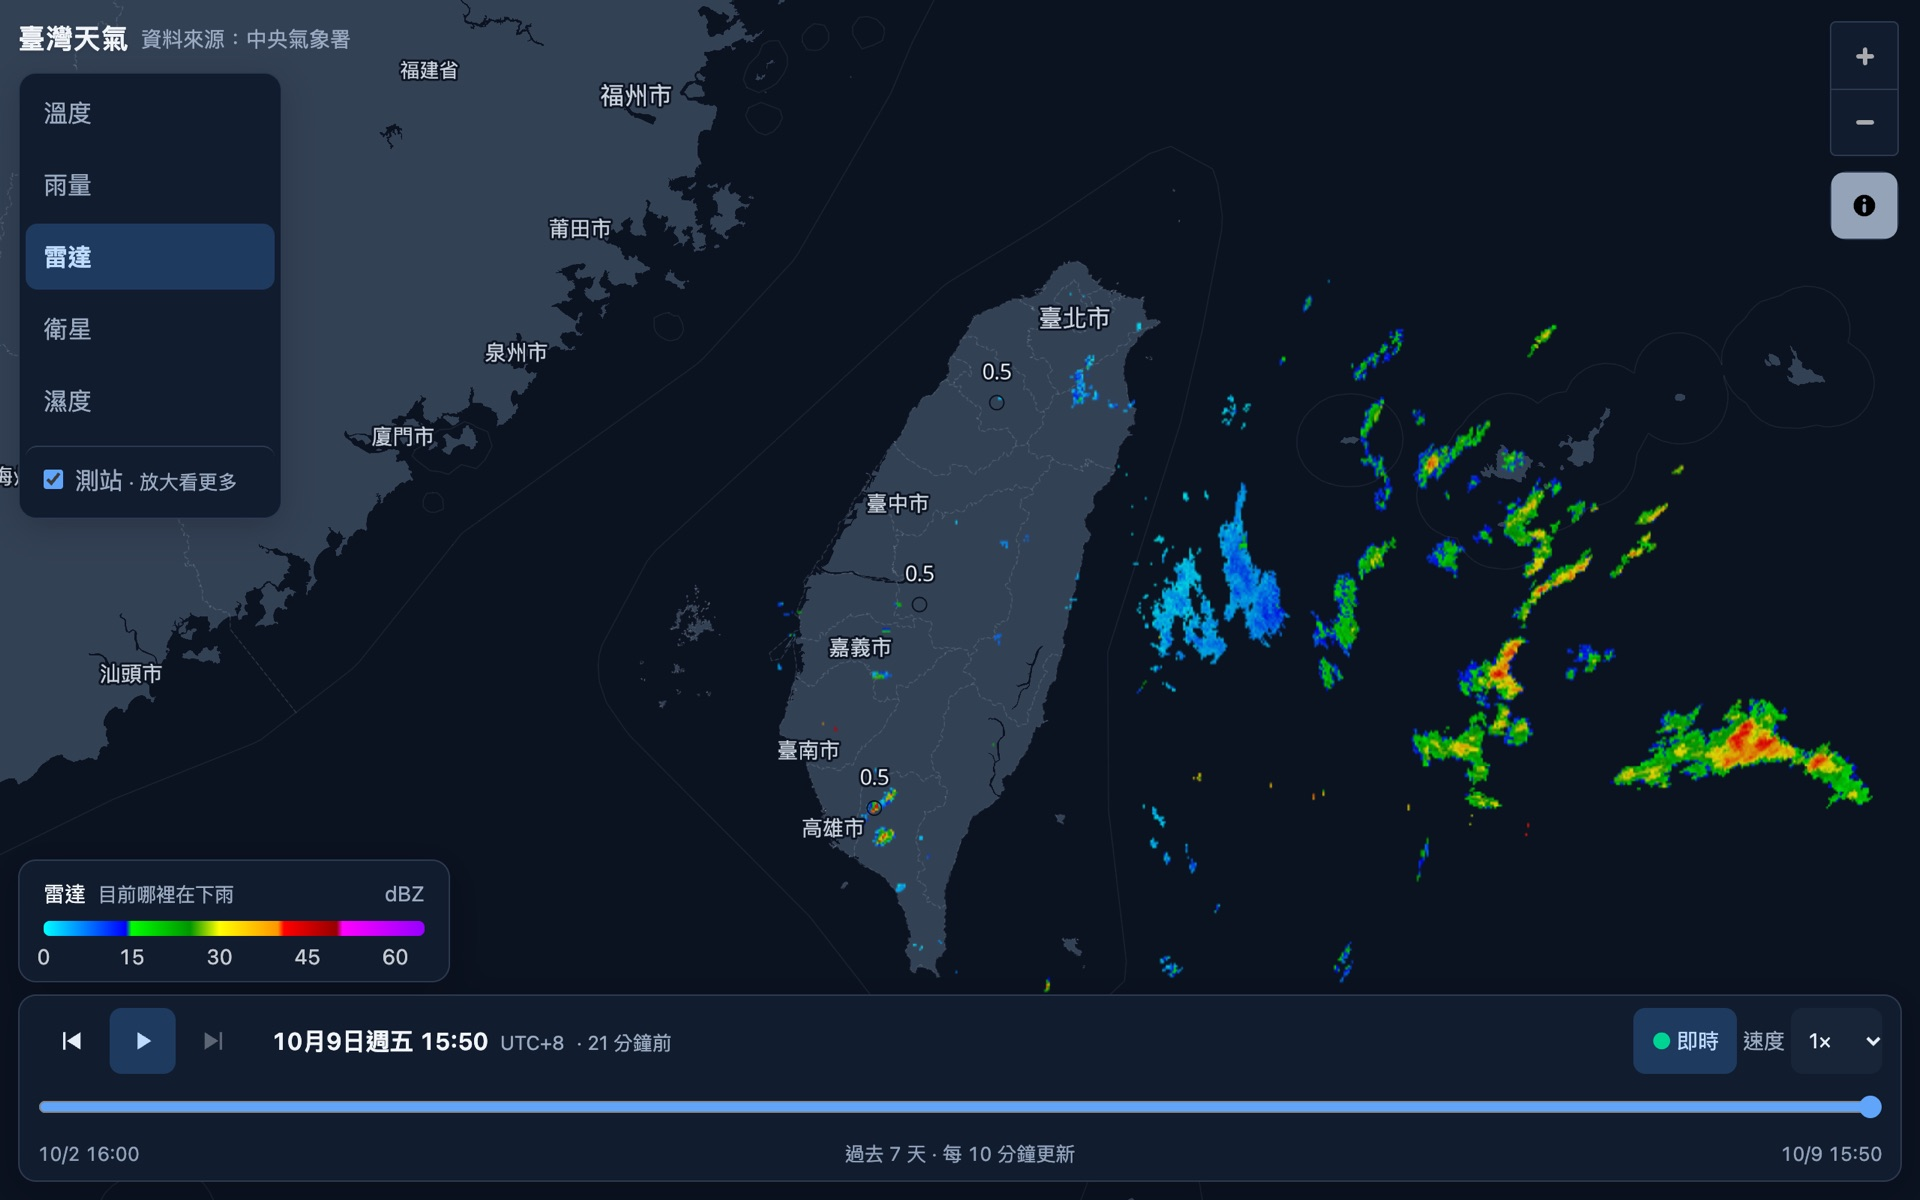
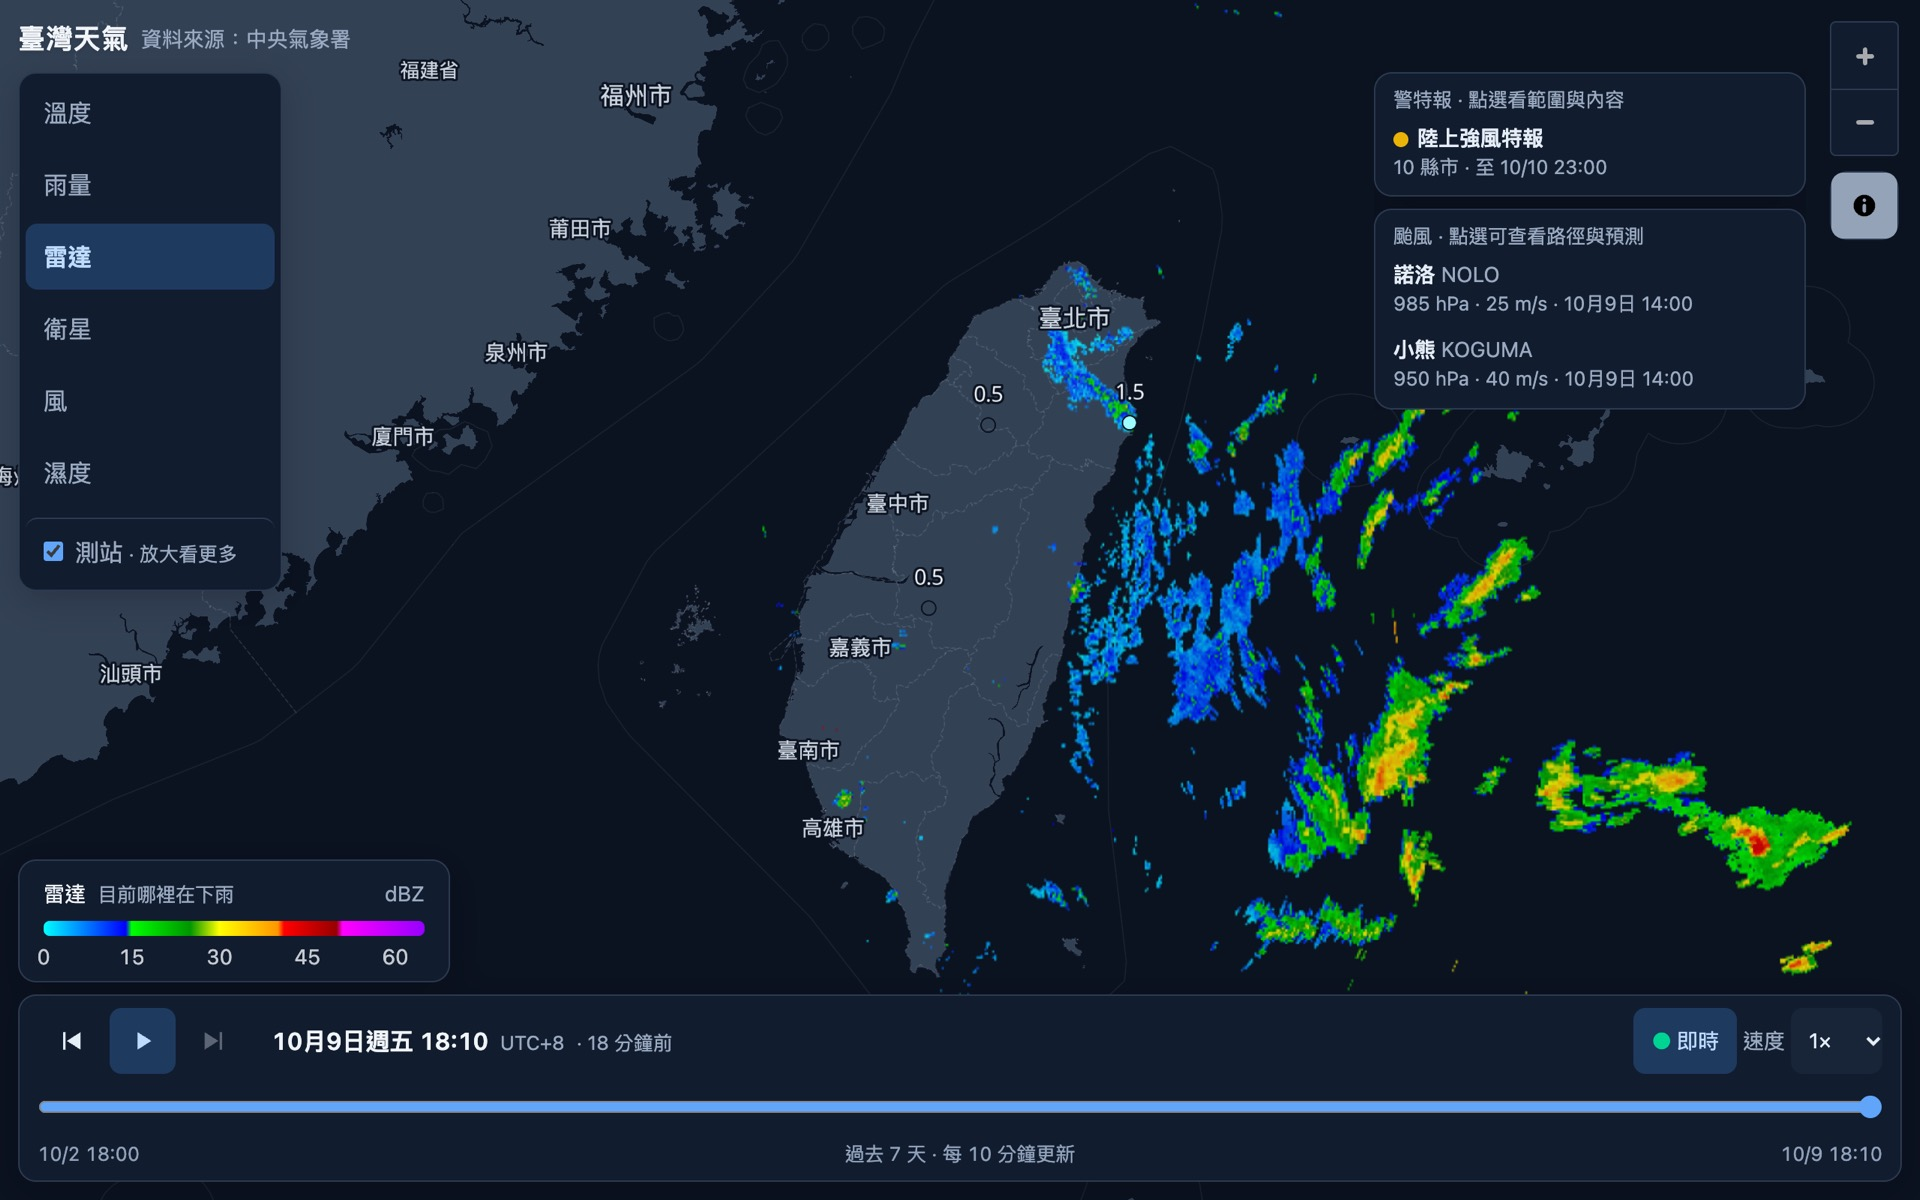
docs: retake README screenshots with the wind layer

diff --git a/README.md b/README.md
@@ -11,6 +11,10 @@
 |---|---|
 | ![雷達圖層：目前哪裡在下雨](docs/screenshots/radar.jpg) | ![放大後顯示測站數值，點選測站開啟資訊卡、一週預報與 24 小時趨勢圖](docs/screenshots/stations.jpg) |
 
+| 風場預報 | 衛星雲圖 |
+|---|---|
+| ![風圖層：顏色為風速，流動的線條為風向，時間軸可看到未來 3 天](docs/screenshots/wind.jpg) | ![衛星圖層：向日葵衛星紅外線雲圖](docs/screenshots/satellite.jpg) |
+
 <p>
   <img src="docs/screenshots/mobile-radar.jpg" width="270" alt="手機版：雷達圖層">
   &nbsp;
